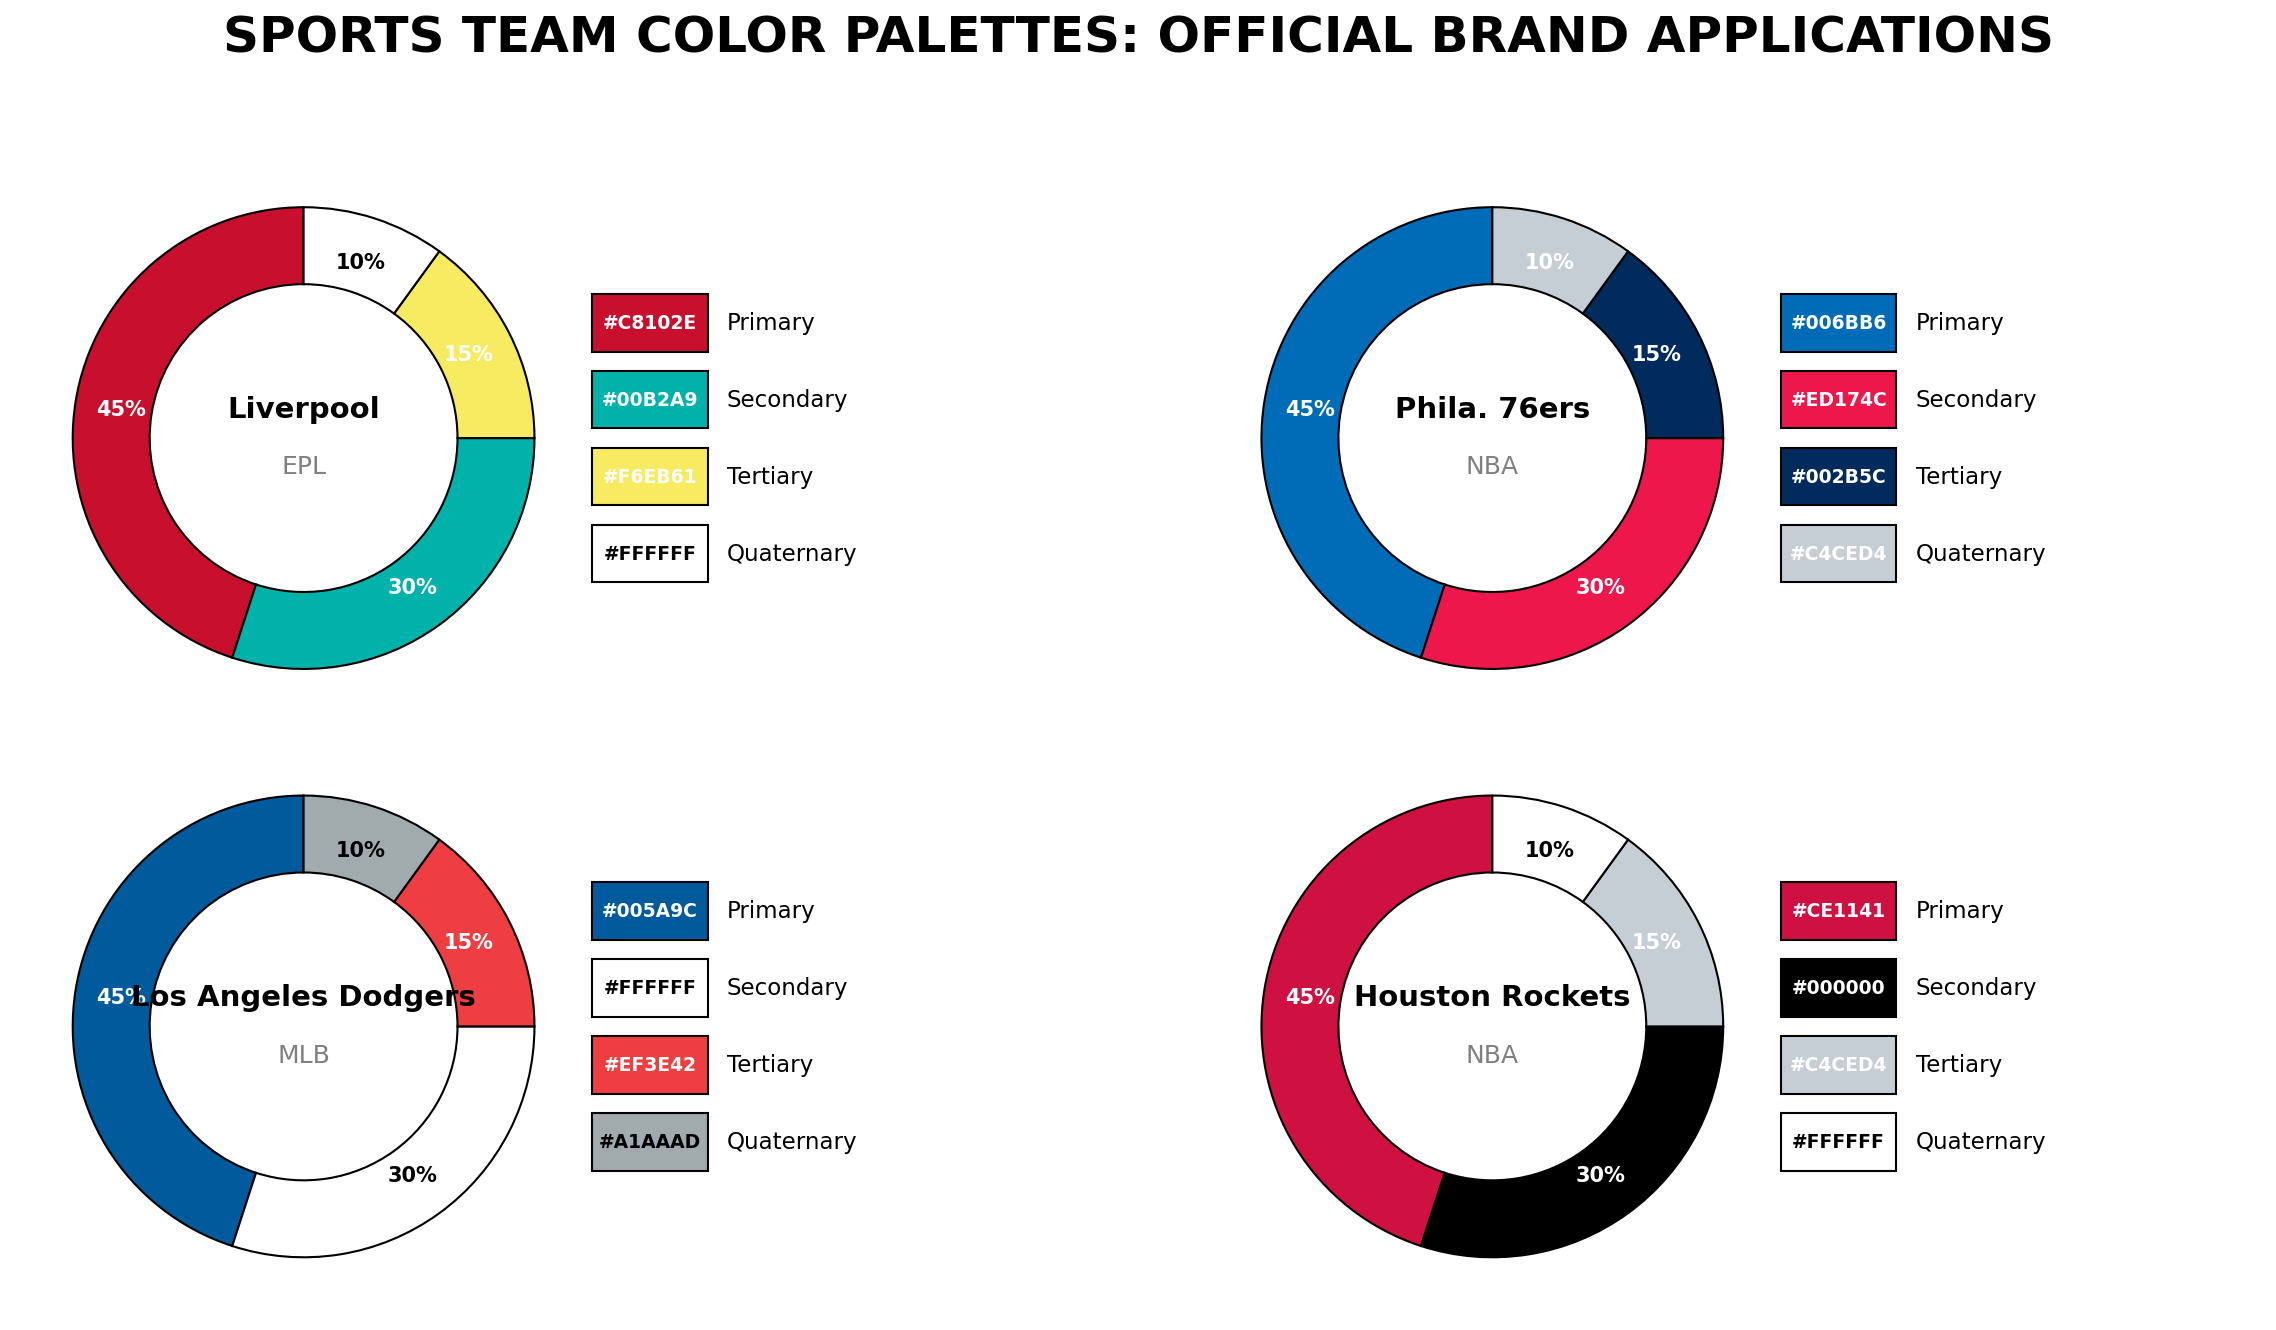
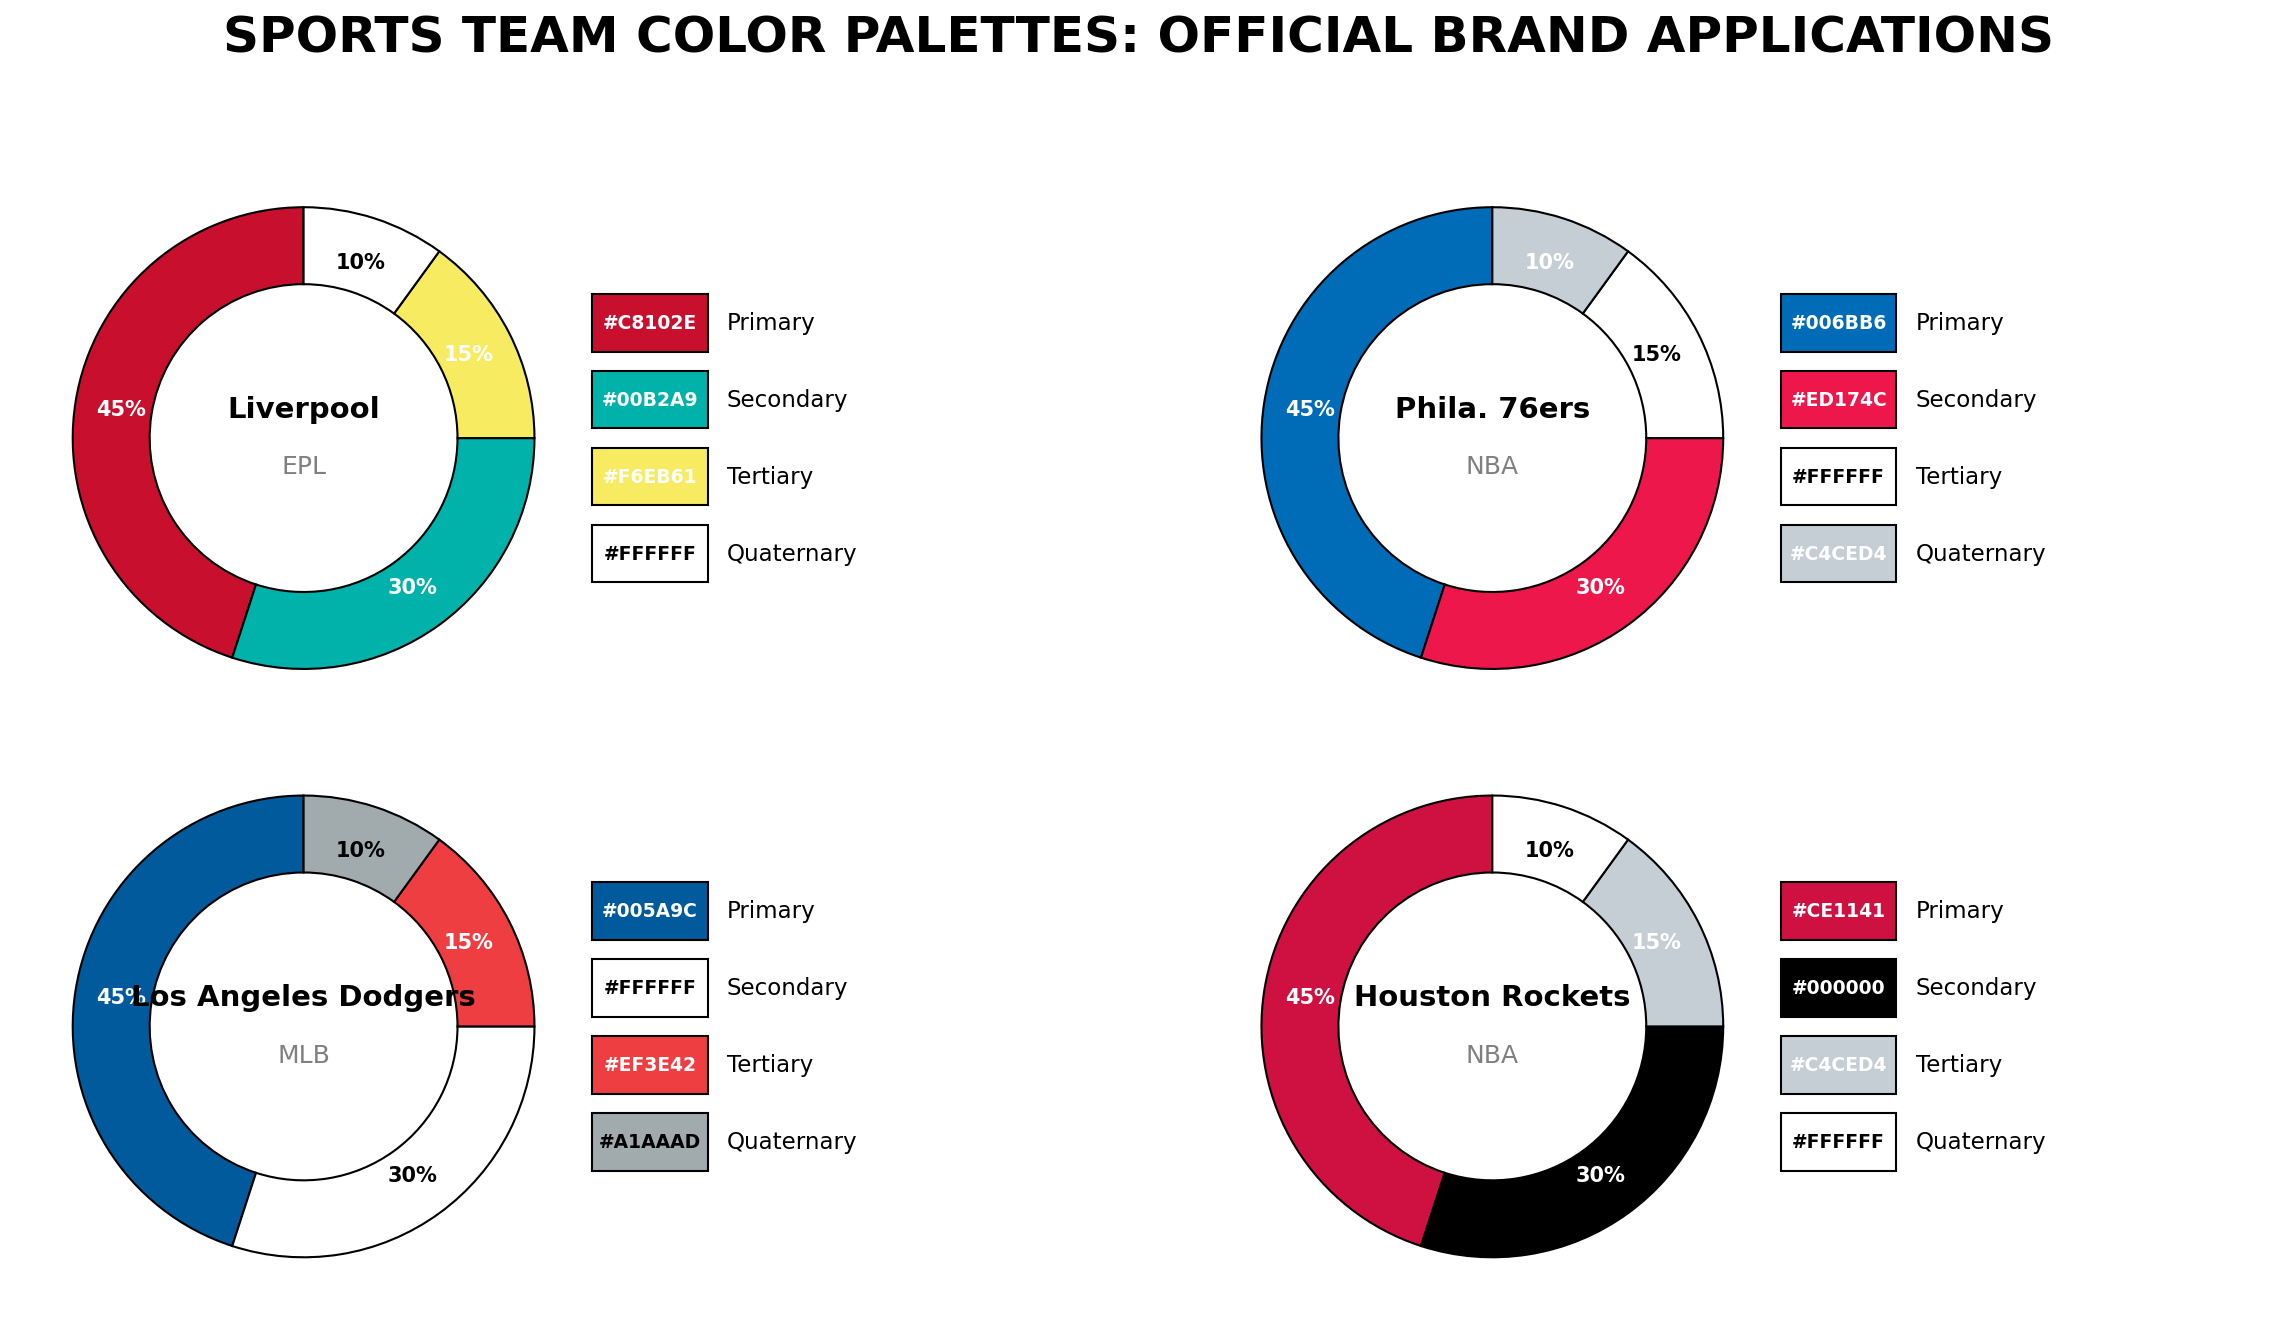
Fix: Corrected 76ers Tertiary color to White to resolve redundancy issues

Changed region(s): [[0.6863, 0.185, 0.7799, 0.3391], [0.7799, 0.3391, 0.8423, 0.4008]]

diff --git a/README.md b/README.md
@@ -34,7 +34,7 @@ Each league has its own JSON file in the `data/` directory. Teams now feature a 
 ### NBA
 | Team | Logo | Primary | Secondary | Tertiary | Quaternary |
 | :--- | :---: | :---: | :---: | :---: | :---: |
-| **Phila. 76ers** | <img src="https://a.espncdn.com/i/teamlogos/nba/500/phi.png" width="40"> | ![#006BB6](https://placehold.co/15x15/006BB6/006BB6.png) #006BB6 | ![#ED174C](https://placehold.co/15x15/ED174C/ED174C.png) #ED174C | ![#002B5C](https://placehold.co/15x15/002B5C/002B5C.png) #002B5C | ![#C4CED4](https://placehold.co/15x15/C4CED4/C4CED4.png) #C4CED4 |
+| **Phila. 76ers** | <img src="https://a.espncdn.com/i/teamlogos/nba/500/phi.png" width="40"> | ![#006BB6](https://placehold.co/15x15/006BB6/006BB6.png) #006BB6 | ![#ED174C](https://placehold.co/15x15/ED174C/ED174C.png) #ED174C | ![#FFFFFF](https://placehold.co/15x15/FFFFFF/FFFFFF.png) #FFFFFF | ![#C4CED4](https://placehold.co/15x15/C4CED4/C4CED4.png) #C4CED4 |
 | **Houston Rockets** | <img src="https://a.espncdn.com/i/teamlogos/nba/500/hou.png" width="40"> | ![#CE1141](https://placehold.co/15x15/CE1141/CE1141.png) #CE1141 | ![#000000](https://placehold.co/15x15/000000/000000.png) #000000 | ![#C4CED4](https://placehold.co/15x15/C4CED4/C4CED4.png) #C4CED4 | ![#FFFFFF](https://placehold.co/15x15/FFFFFF/FFFFFF.png) #FFFFFF |
 
 ### EPL
